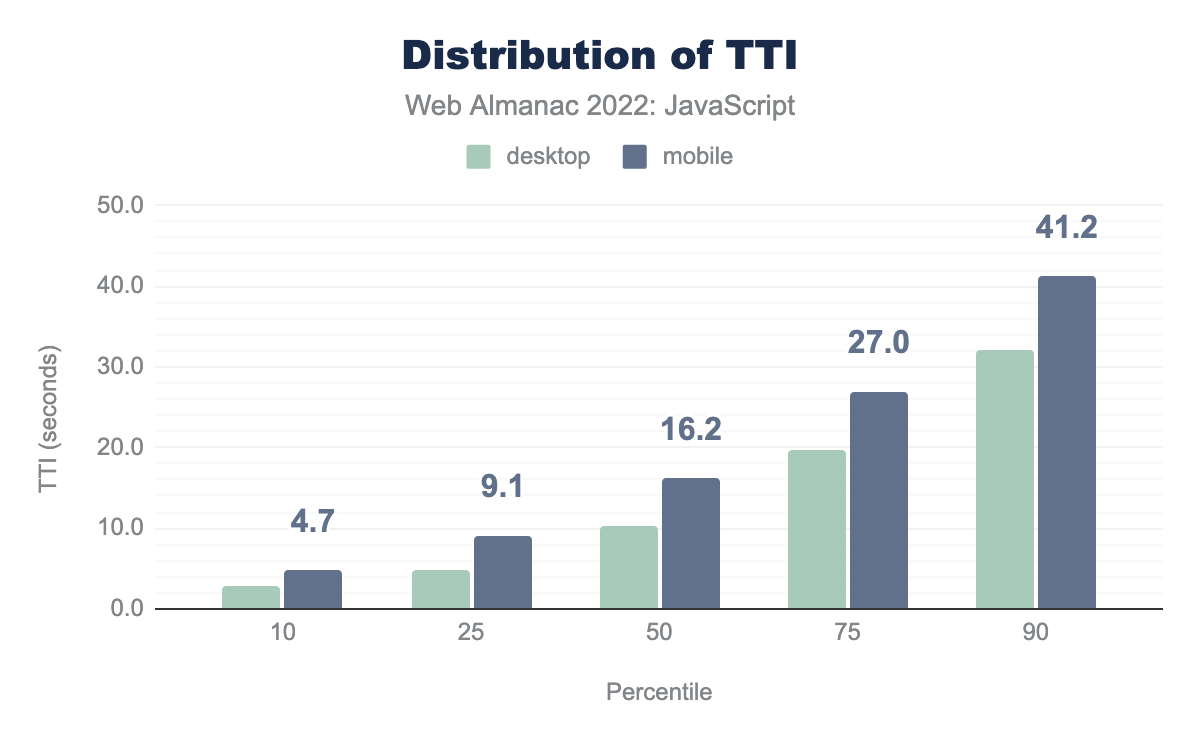
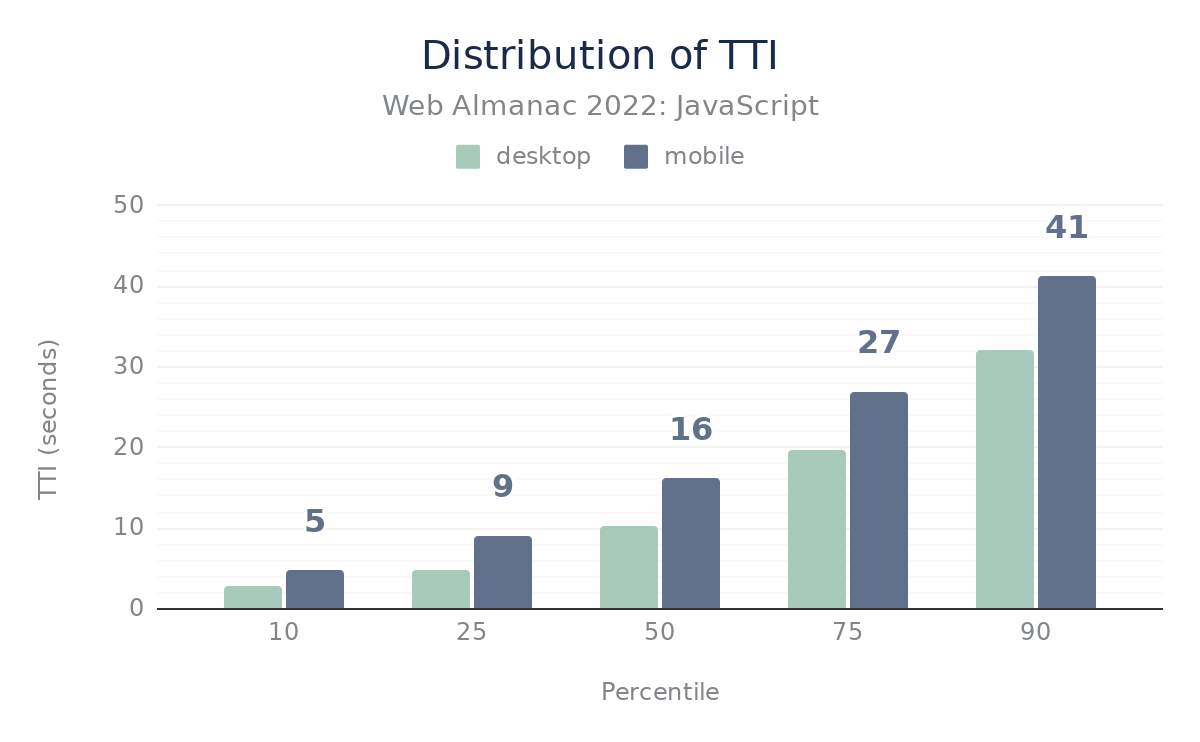
figure descriptions, regenerated some screenshots

diff --git a/src/content/en/2022/javascript.md b/src/content/en/2022/javascript.md
@@ -33,7 +33,7 @@ To begin, we'll assess the amount of JavaScript web developers ship on the web. 
 {{ figure_markup(
     image="bytes-per-page.png",
     caption="Distribution of the amount of JavaScript loaded per page.",
-    description="TODO",
+    description="Bar chart showing the 10, 25, 50, 75, and 90th percentiles of JavaScript kilobytes per page. On mobile pages, the values are 87, 209, 461, 857, and 1,367 KB respectively. Desktop values are slightly higher across the board. ",
     chart_url="https://docs.google.com/spreadsheets/d/e/2PACX-1vTok8UGqYaA58uKaASB2pfM2jlmQu6g3kwHxB6Lb8L7dbccyDtQht823YhchdXRG8SZpB3asRayJI97/pubchart?oid=807278764&format=interactive",
     sheets_gid="1117050794",
     sql_file="bytes_2022.sql"
@@ -45,7 +45,7 @@ As was the case last year, this year marks yet another increase in the amount of
 {{ figure_markup(
     image="unused-js.png",
     caption="Distribution of the amount of unused JavaScript bytes.",
-    description="TODO",
+    description="Bar chart showing the 10, 25, 50, 75, and 90th percentiles of kilobytes of unused JavaScript per page. On mobile pages, the values are 0, 62, 162, 342, and 604. Desktop trends slightly higher.",
     chart_url="https://docs.google.com/spreadsheets/d/e/2PACX-1vTok8UGqYaA58uKaASB2pfM2jlmQu6g3kwHxB6Lb8L7dbccyDtQht823YhchdXRG8SZpB3asRayJI97/pubchart?oid=1640758017&format=interactive",
     sheets_gid="943216000",
     sql_file="unused_js_bytes_distribution.sql"
@@ -63,7 +63,7 @@ Every resource on a page accounts for one request, and scripts are no different.
 {{ figure_markup(
     image="requests-per-page.png",
     caption="Distribution of the number of JavaScript requests per page.",
-    description="TODO",
+    description="Bar chart showing the 10, 25, 50, 75, and 90th percentiles of JavaScript requests per page. On mobile pages, the values are 4, 10, 21, 37, and 60. Desktop trends slightly higher by 1-3 requests across the board.",
     chart_url="https://docs.google.com/spreadsheets/d/e/2PACX-1vTok8UGqYaA58uKaASB2pfM2jlmQu6g3kwHxB6Lb8L7dbccyDtQht823YhchdXRG8SZpB3asRayJI97/pubchart?oid=372493183&format=interactive",
     sheets_gid="1148191446",
     sql_file="requests_2022.sql"
@@ -103,7 +103,7 @@ There are a wealth of choices when it comes to JavaScript bundlers, but one that
 {{ figure_markup(
     image="webpack-rank.png",
     caption="Pages that use webpack-bundled JavaScript by rank.",
-    description="TODO",
+    description="Bar chart showing the percentage of pages that use webpack, in decreasing order of popularity. On mobile, the values are 17% for the top 1k, 15% for the top 10k, 12% for the top 100k, 8% for the top 1M, and 5% over all websites. Desktop pages trend close to mobile.",
     chart_url="https://docs.google.com/spreadsheets/d/e/2PACX-1vTok8UGqYaA58uKaASB2pfM2jlmQu6g3kwHxB6Lb8L7dbccyDtQht823YhchdXRG8SZpB3asRayJI97/pubchart?oid=1191436570&format=interactive",
     sheets_gid="1329160999",
     sql_file="usage_of_webpack_by_rank.sql"
@@ -115,7 +115,7 @@ Of the 1,000 most popular websites, 17% use webpack as a bundler. This makes sen
 {{ figure_markup(
     image="parcel-rank.png",
     caption="Pages that use Parcel-bundled JavaScript by rank.",
-    description="TODO",
+    description="Bar chart showing the percentage of pages that use Parcel, in decreasing order of popularity. On mobile, the values are 1.3% for the top 1k, 1.9% for the top 10k, 1.5% for the top 100k, 1.2% for the top 1M, and 1.3% over all websites. Desktop pages trend close to mobile.",
     chart_url="https://docs.google.com/spreadsheets/d/e/2PACX-1vTok8UGqYaA58uKaASB2pfM2jlmQu6g3kwHxB6Lb8L7dbccyDtQht823YhchdXRG8SZpB3asRayJI97/pubchart?oid=369910383&format=interactive",
     sheets_gid="908384281",
     sql_file="usage_of_parcel_by_rank.sql"
@@ -133,7 +133,7 @@ Transpilers are often used in toolchains at build-time to transform newer JavaSc
 {{ figure_markup(
     image="babel-rank.png",
     caption="Pages that use Babel by rank.",
-    description="TODO",
+    description="Bar chart showing the percentage of pages that use Babel, in decreasing order of popularity. On mobile pages, the values are 40% of the top 1k, 40% of the top 10k, 32% fo the top 100k, 23% of the top 1M, and 26% over all websites. Desktop pages trend close to mobile.",
     chart_url="https://docs.google.com/spreadsheets/d/e/2PACX-1vTok8UGqYaA58uKaASB2pfM2jlmQu6g3kwHxB6Lb8L7dbccyDtQht823YhchdXRG8SZpB3asRayJI97/pubchart?oid=1109529452&format=interactive",
     sheets_gid="304021769",
     sql_file="usage_of_typescript_and_babel_by_rank.sql"
@@ -257,7 +257,7 @@ Let's dig into an analysis of how many of each resource hint type is used.
 {{ figure_markup(
     image="prefetch.png",
     caption="Distribution of `prefetch` adoption for JavaScript resources per page.",
-    description="TODO",
+    description="Bar chart showing the 10, 25, 50, 75, and 90th percentiles of prefetch hints for JavaScript resources per page. The values for mobile pages are 1, 2, 3, 7, and 16, respectively. Desktop values trend higher above the 50th percentile by 1-4 hints per page.",
     chart_url="https://docs.google.com/spreadsheets/d/e/2PACX-1vTok8UGqYaA58uKaASB2pfM2jlmQu6g3kwHxB6Lb8L7dbccyDtQht823YhchdXRG8SZpB3asRayJI97/pubchart?oid=987611412&format=interactive",
     sheets_gid="397179470",
     sql_file="resource-hints-preload-prefetch-modulepreload-distribution.sql"
@@ -269,7 +269,7 @@ Adoption of `prefetch` here is somewhat surprising, with three `prefetch` hints 
 {{ figure_markup(
     image="preload.png",
     caption="Distribution of `preload` adoption for JavaScript resources per page.",
-    description="TODO",
+    description="Bar chart showing the 10, 25, 50, 75, and 90th percentiles of preload hints for JavaScript resources per page. The values for mobile pages are 1, 1, 2, 3, and 5, respectively. Desktop values are nearly identical to mobile.",
     chart_url="https://docs.google.com/spreadsheets/d/e/2PACX-1vTok8UGqYaA58uKaASB2pfM2jlmQu6g3kwHxB6Lb8L7dbccyDtQht823YhchdXRG8SZpB3asRayJI97/pubchart?oid=1371197443&format=interactive",
     sheets_gid="397179470",
     sql_file="resource-hints-preload-prefetch-modulepreload-distribution.sql"
@@ -283,7 +283,7 @@ Unfortunately, we see five `preload` hints for JavaScript resources at the 90th 
 {{ figure_markup(
     image="modulepreload.png",
     caption="Distribution of `modulepreload` adoption for JavaScript resources per page.",
-    description="TODO",
+    description="Bar chart showing the 10, 25, 50, 75, and 90th percentiles of modulepreload hints for JavaScript resources per page. The values for mobile pages are 1, 1, 2, 6, and 14, respectively. Desktop values are nearly identical to mobile..",
     chart_url="https://docs.google.com/spreadsheets/d/e/2PACX-1vTok8UGqYaA58uKaASB2pfM2jlmQu6g3kwHxB6Lb8L7dbccyDtQht823YhchdXRG8SZpB3asRayJI97/pubchart?oid=100852946&format=interactive",
     sheets_gid="397179470",
     sql_file="resource-hints-preload-prefetch-modulepreload-distribution.sql"
@@ -314,7 +314,7 @@ We found that 77% of mobile pages have at least one render-blocking script in th
 {{ figure_markup(
     image="render-blocking-scripts-rank.png",
     caption="Pages by rank that have render-blocking scripts in the document `<head>`.",
-    description="TODO",
+    description="Bar chart showing the percent of pages that have render-blocking JavaScript segmented by site popularity. 63% of the top 1k mobile pages have it, 68% of the top 10k, 70% of the top 100k, 73% of the top 1M, and 77% overall. Desktop pages tend to have more render-blocking JavaScript, especially among the more popular pages.",
     chart_url="https://docs.google.com/spreadsheets/d/e/2PACX-1vTok8UGqYaA58uKaASB2pfM2jlmQu6g3kwHxB6Lb8L7dbccyDtQht823YhchdXRG8SZpB3asRayJI97/pubchart?oid=193447897&format=interactive",
     sheets_gid="971996043",
     sql_file="render_blocking_javascript_by_rank.sql"
@@ -336,7 +336,7 @@ Script injection is a fairly common practice used in a number of scenarios, but 
 {{ figure_markup(
     image="injected-scripts.png",
     caption="Distribution of percentage of injected scripts across various percentiles.",
-    description="TODO",
+    description="Bar chart showing the 10, 25, 50, 75, and 90th percentiles of the percent of scripts per page that are injected. On mobile pages, the values are 0%, 8%, 25%, 50%, and 70% respectively. Desktop values are nearly identical.",
     chart_url="https://docs.google.com/spreadsheets/d/e/2PACX-1vTok8UGqYaA58uKaASB2pfM2jlmQu6g3kwHxB6Lb8L7dbccyDtQht823YhchdXRG8SZpB3asRayJI97/pubchart?oid=389798470&format=interactive",
     sheets_gid="1017601908",
     sql_file="distribution_of_injected_scripts.sql"
@@ -363,7 +363,7 @@ In this section, we'll analyze the breakdown of first-party and third-party code
 {{ figure_markup(
     image="requests-party.png",
     caption="Distribution of first- versus third-party JavaScript requests by host.",
-    description="TODO",
+    description="Bar chart showing the 10, 25, 50, 75, and 90th percentiles of JavaScript requests per mobile page, broken down by whether the script was served by a first- or third-party host. The values for both are nearly identical, at 2, 4, 10, 20, and 34, respectively.",
     chart_url="https://docs.google.com/spreadsheets/d/e/2PACX-1vTok8UGqYaA58uKaASB2pfM2jlmQu6g3kwHxB6Lb8L7dbccyDtQht823YhchdXRG8SZpB3asRayJI97/pubchart?oid=2001603308&format=interactive",
     sheets_gid="755344459",
     sql_file="requests_by_3p.sql"
@@ -385,7 +385,7 @@ So we know that hosts are shipping a lot of third-party scripts, but what's the 
 {{ figure_markup(
     image="bytes-party.png",
     caption="Distribution of first- versus third-party JavaScript bytes by host.",
-    description="TODO",
+    description="Bar chart showing the 10, 25, 50, 75, and 90th percentiles of kilobytes of JavaScript loaded per mobile page, broken down by whether the script was served by a first- or third-party host. The values for third-parties are 34, 109, 292, 595, and 1,003 KB per page, respectively. First-party scripts are much lower, at 20, 65, 109, 309, and 642 KB per page.",
     chart_url="https://docs.google.com/spreadsheets/d/e/2PACX-1vTok8UGqYaA58uKaASB2pfM2jlmQu6g3kwHxB6Lb8L7dbccyDtQht823YhchdXRG8SZpB3asRayJI97/pubchart?oid=1411726363&format=interactive",
     sheets_gid="1560368150",
     sql_file="bytes_by_3p.sql"
@@ -477,7 +477,7 @@ An equally important aspect of JavaScript performance is how we deliver scripts 
 {{ figure_markup(
     image="compression-methods.png",
     caption="Compression of JavaScript by method.",
-    description="TODO",
+    description="Bar chart comparing the percent of script requests having either gzip, Brotli, deflate, or no compression method set. On mobile pages, the values are 52%, 34%, 0%, and 13% respectively. Desktop values are within 1 percentage point.",
     chart_url="https://docs.google.com/spreadsheets/d/e/2PACX-1vTok8UGqYaA58uKaASB2pfM2jlmQu6g3kwHxB6Lb8L7dbccyDtQht823YhchdXRG8SZpB3asRayJI97/pubchart?oid=1805733290&format=interactive",
     sheets_gid="1841484709",
     sql_file="compression_method.sql"
@@ -491,7 +491,7 @@ When something is the default, that default sometimes remains in place rather th
 {{ figure_markup(
     image="compression-by-host.png",
     caption="Compression methods of script resources by host.",
-    description="TODO",
+    description="Bar chart showing the percent of script requests on mobile pages that use each compression method, broken down by whether it was served by a first- or third-party host. 60% of third-party hosts serve scripts compressed with gzip, 29% with Brotli, 12% without any compression method, and 0% with deflate. Among first-party hosts, 45% serve gzip, 40% with Brotli, 15% wtihotu any compression method, and 0% with deflate.",
     chart_url="https://docs.google.com/spreadsheets/d/e/2PACX-1vTok8UGqYaA58uKaASB2pfM2jlmQu6g3kwHxB6Lb8L7dbccyDtQht823YhchdXRG8SZpB3asRayJI97/pubchart?oid=1368281759&format=interactive",
     sheets_gid="1339368020",
     sql_file="compression_method_by_3p.sql"
@@ -503,7 +503,7 @@ The problem is made worse by third-party script providers, which still deploy gz
 {{ figure_markup(
     image="uncompressed.png",
     caption="Uncompressed resources by size.",
-    description="TODO",
+    description="Histogram showing the distribution of kilobytes of uncompressed JavaScript resources on mobile pages, broken down by whether the script was served by a first- or third-party host. Uncompressed third-party scripts skew much more towards the small end, 90% of requests are less than 5 KB, with 3% of requests being 5-10 KB in size, and 2% being 100+ KB on the other end of the spectrum. First-party scripts skew more towards being larger in size, with only 50% being less than 5 KB, 12% between 5 and 10 KB, and 6% exceeding 100 KB.",
     chart_url="https://docs.google.com/spreadsheets/d/e/2PACX-1vTok8UGqYaA58uKaASB2pfM2jlmQu6g3kwHxB6Lb8L7dbccyDtQht823YhchdXRG8SZpB3asRayJI97/pubchart?oid=1991115497&format=interactive",
     sheets_gid="1609356066",
     sql_file="compression_none_by_bytes.sql"
@@ -521,7 +521,7 @@ Minification of text assets is a time-tested practice for reducing file size. Th
 {{ figure_markup(
     image="lighthouse-unminified.png",
     caption="Distribution of unminified JavaScript audit scores.",
-    description="TODO",
+    description="Histogram showing the percent of pages that have various ranges of scores on Lighthouse's unminified JavaScript audit. 68% of mobile pages have the best scores in the 0.9 to 1.0 range, 4% between 0.75 and 0.9, 8% between 0.5 and 0.75, 11% between 0.25 and 0.50, 2% between 0.1 and 0.25, and 7% in the worst range of 0.1 or less. Desktop pages tend to skew higher in the better ranges, with 79% of pages above 0.9.",
     chart_url="https://docs.google.com/spreadsheets/d/e/2PACX-1vTok8UGqYaA58uKaASB2pfM2jlmQu6g3kwHxB6Lb8L7dbccyDtQht823YhchdXRG8SZpB3asRayJI97/pubchart?oid=968128936&format=interactive",
     sheets_gid="906447348",
     sql_file="lighthouse_unminified_js.sql"
@@ -530,12 +530,10 @@ Minification of text assets is a time-tested practice for reducing file size. Th
 
 Here, 0.00 represents the worst score whereas 1.00 represents the best score. 68% of mobile pages are scoring between 0.9 and 1.0 on Lighthouse's minified JavaScript audit, whereas the figure for desktop pages is 79%. This means that on mobile, 32% of pages have opportunities to ship minified JavaScript, whereas that figure for desktop pages is 21%.
 
-{# TODO(editors): This metric corresponds to the 3P chapter, not the JS chapter. Edit this to ensure that the metadata links to the right source sheet/query. #}
-
 {{ figure_markup(
     image="lighthouse-unminified-bytes.png",
     caption="Distribution of the potential savings by minifying JavaScript.",
-    description="TODO",
+    description="Bar chart showing the 10, 25, 50, 75, and 90th percentiles of the kilobytes of potential savings with JavaScript minification, broken down by total savings and those only with third-party scripts. The total savings at each percentile are 3, 5, 12, 34, and 76 KB respectively. For only third-party scripts, the savings are 0, 0, 0, 3, and 19 KB.",
     chart_url="https://docs.google.com/spreadsheets/d/e/2PACX-1vSefmoEZjMhonz5fkMTxGIywJn-T7F8vYGAaj9wF9n5l8gApihCf3WCMZtrP3Syg-9E8RD8IKZg62U7/pubchart?oid=1309849294&format=interactive",
     sheets_gid="https://docs.google.com/spreadsheets/d/1YqoRRsyiNsrEabVLu2nRU98JIG_0zLLuoQhC2nX8xbM/edit#gid=442223364",
     sql_file="../third-parties/distribution_of_lighthouse_unminified_js_by_3p.sql"
@@ -547,7 +545,7 @@ At the median, we see that pages are shipping around 12 KB of JavaScript that ca
 {{ figure_markup(
     image="lighthouse-unminified-avg.png",
     caption="Average wasted bytes of unminified JavaScript.",
-    description="TODO",
+    description="Pie chart showing that on average 81.3% of wasted JavaScript bytes come from first-party scripts and 18.7% come from third-party scripts.",
     chart_url="https://docs.google.com/spreadsheets/d/e/2PACX-1vTok8UGqYaA58uKaASB2pfM2jlmQu6g3kwHxB6Lb8L7dbccyDtQht823YhchdXRG8SZpB3asRayJI97/pubchart?oid=656802580&format=interactive",
     sheets_gid="1457445566",
     sql_file="lighthouse_unminified_js_by_3p.sql"
@@ -599,7 +597,7 @@ The first of these is [First Input Delay (FID)](https://web.dev/fid/), which rec
 {{ figure_markup(
     image="fid.png",
     caption="The distribution of websites' 75th percentile FID values.",
-    description="TODO",
+    description="Bar chart showing the 10, 25, 50, 75 and 90th percentiles of origin's 75th percentile FID values. All values are 0 ms until the 90th percentile, where both desktop and phone are 25 ms.'",
     chart_url="https://docs.google.com/spreadsheets/d/e/2PACX-1vTok8UGqYaA58uKaASB2pfM2jlmQu6g3kwHxB6Lb8L7dbccyDtQht823YhchdXRG8SZpB3asRayJI97/pubchart?oid=217835320&format=interactive",
     sheets_gid="2108420759",
     sql_file="fid.sql"
@@ -613,7 +611,7 @@ Given that the "good" FID threshold is [100 ms](https://web.dev/fid/#what-is-a-g
 {{ figure_markup(
     image="inp.png",
     caption="The distribution of websites' 75th percentile INP values.",
-    description="TODO",
+    description="Bar chart showing the 10, 25, 50, 75, and 90th percentiles of origins' 75th percentile INP values. Phone experiences are 75, 100, 150, 250, and 400 milliseconds, respectively. For desktop experiences, the values are lower across the board at 50, 75, 125, 225, and 350 milliseconds.",
     chart_url="https://docs.google.com/spreadsheets/d/e/2PACX-1vTok8UGqYaA58uKaASB2pfM2jlmQu6g3kwHxB6Lb8L7dbccyDtQht823YhchdXRG8SZpB3asRayJI97/pubchart?oid=675812331&format=interactive",
     sheets_gid="1763213051",
     sql_file="inp.sql"
@@ -627,7 +625,7 @@ Consider that a "good" INP score is [200 milliseconds](https://web.dev/inp/#what
 {{ figure_markup(
     image="tbt.png",
     caption="The distribution of pages' lab-based TBT values.",
-    description="TODO",
+    description="Bar chart showing the 10, 25, 50, 75, and 90th percentiles of pages' synthetic TBT values. Mobile pages have 154, 606, 1,686, 3,596, and 6,385 milliseconds of TBT, respectively. For desktop pages, the values are 0, 1, 72, 257, and 601 milliseconds.",
     chart_url="https://docs.google.com/spreadsheets/d/e/2PACX-1vTok8UGqYaA58uKaASB2pfM2jlmQu6g3kwHxB6Lb8L7dbccyDtQht823YhchdXRG8SZpB3asRayJI97/pubchart?oid=1624036326&format=interactive",
     sheets_gid="947698668",
     sql_file="tbt.sql"
@@ -643,7 +641,7 @@ Considering that [INP correlates very well with TBT](https://github.com/GoogleCh
 {{ figure_markup(
     image="tti.png",
     caption="The distribution of the TTI scores by origin and percentile.",
-    description="TODO",
+    description="Bar chart showing the 10, 25, 50, 75, and 90th percentiles of pages' synthetic TTI. On mobile pages, the distribution of TTI is 5, 9, 16, 27, and 41 seconds, respectively. For desktop pages, the values are 3, 5, 10, 20, and 32 seconds.",
     chart_url="https://docs.google.com/spreadsheets/d/e/2PACX-1vTok8UGqYaA58uKaASB2pfM2jlmQu6g3kwHxB6Lb8L7dbccyDtQht823YhchdXRG8SZpB3asRayJI97/pubchart?oid=1458856020&format=interactive",
     sheets_gid="864627793",
     sql_file="time_to_interactive.sql"
@@ -661,7 +659,7 @@ Long tasks are a problem because they block the main thread from doing any other
 {{ figure_markup(
     image="long-tasks.png",
     caption="The distribution of the number of long tasks per page.",
-    description="TODO",
+    description="Bar chart showing the 10, 25, 50, 75, and 90th percentiles of the number of long tasks per page. For mobile pages, there are 5, 10, 19, 32, and 48 long tasks per page, respectively. There are many fewer long tasks on desktop pages, which have only 2, 3, 7, 12, and 19 long tasks per page.",
     chart_url="https://docs.google.com/spreadsheets/d/e/2PACX-1vTok8UGqYaA58uKaASB2pfM2jlmQu6g3kwHxB6Lb8L7dbccyDtQht823YhchdXRG8SZpB3asRayJI97/pubchart?oid=563658830&format=interactive",
     sheets_gid="1504800023",
     sql_file="distribution_of_number_of_long_tasks.sql"
@@ -675,7 +673,7 @@ However, the picture gets much worse at higher percentiles. Long tasks at the 75
 {{ figure_markup(
     image="long-tasks-time.png",
     caption="Distribution of long tasks time per page.",
-    description="TODO",
+    description="Bar chart showing the 10, 25, 50, 75, and 90th percentile of the total long task time per page. Mobile pages have 781, 1,744, 3,590, 6,570, and 10,856 milliseconds of long tasks per page, respectively. The values for desktop are much lower, at 160, 349, 738, 1,419, and 2,501 milliseconds.",
     chart_url="https://docs.google.com/spreadsheets/d/e/2PACX-1vTok8UGqYaA58uKaASB2pfM2jlmQu6g3kwHxB6Lb8L7dbccyDtQht823YhchdXRG8SZpB3asRayJI97/pubchart?oid=970989213&format=interactive",
     sheets_gid="1295792422",
     sql_file="distribution_of_long_tasks_time.sql"
@@ -781,7 +779,7 @@ To understand the usage of libraries and frameworks, HTTP Archive uses [Wappalyz
 {{ figure_markup(
     image="frameworks-libraries.png",
     caption="Adoption of top libraries and frameworks.",
-    description="TODO",
+    description="Bar chart showing the percent of pages that use the top JavaScript libraries and frameworks. Starting with the most popular, jQuery is used by 81% of mobile pages, followed by core-js on 41%, jQuery Migrate on 34%, jQuery UI on 23%, Modernizr on 13%, Lodash, LazySizes, and OWL Carousel on 9%, React, FancyBox, Slick, and GSAP on 8%, Isotope on 7%, and Underscore.js and Lightbox on 6%. Desktop adoption is very similar.",
     chart_url="https://docs.google.com/spreadsheets/d/e/2PACX-1vTok8UGqYaA58uKaASB2pfM2jlmQu6g3kwHxB6Lb8L7dbccyDtQht823YhchdXRG8SZpB3asRayJI97/pubchart?oid=1455350286&format=interactive",
     height="491",
     sheets_gid="582575220",
